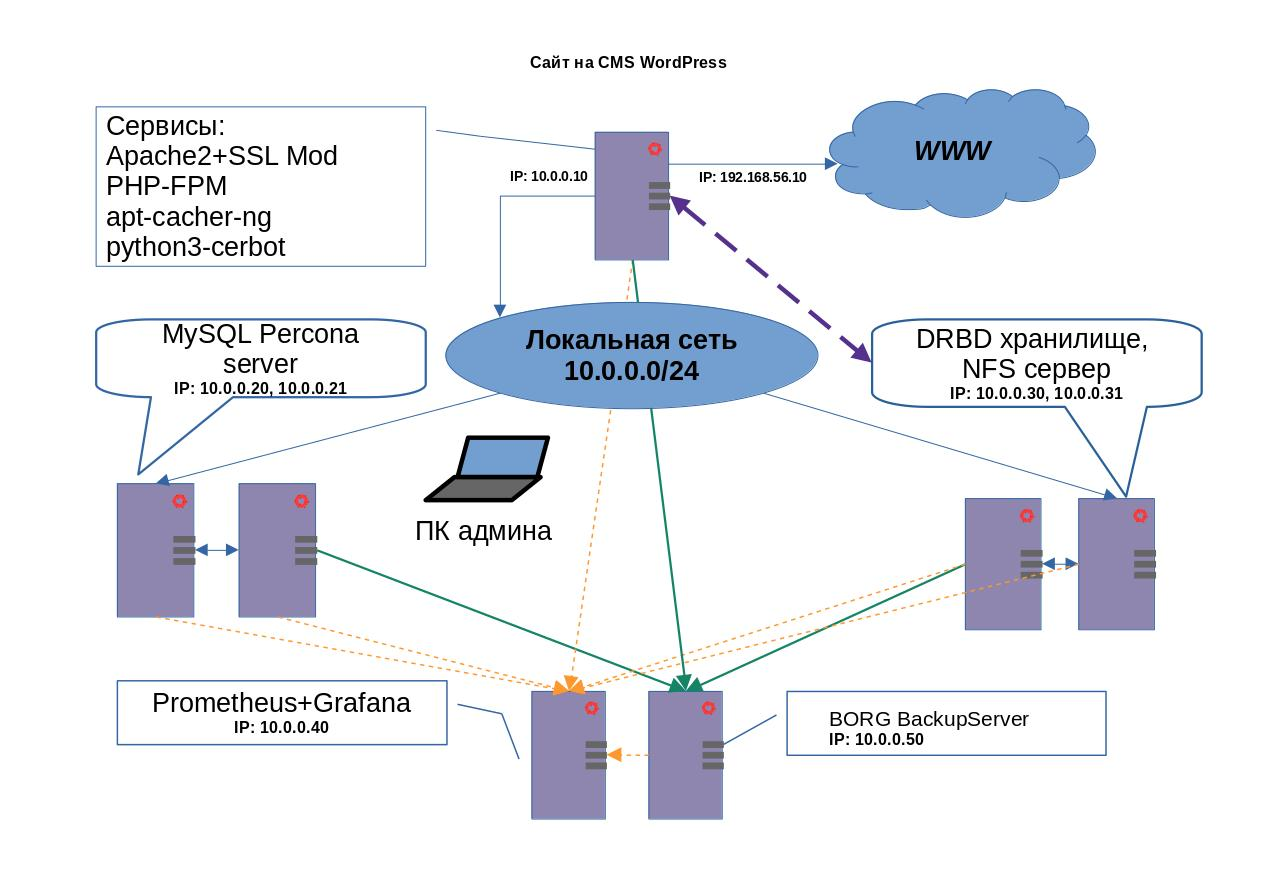
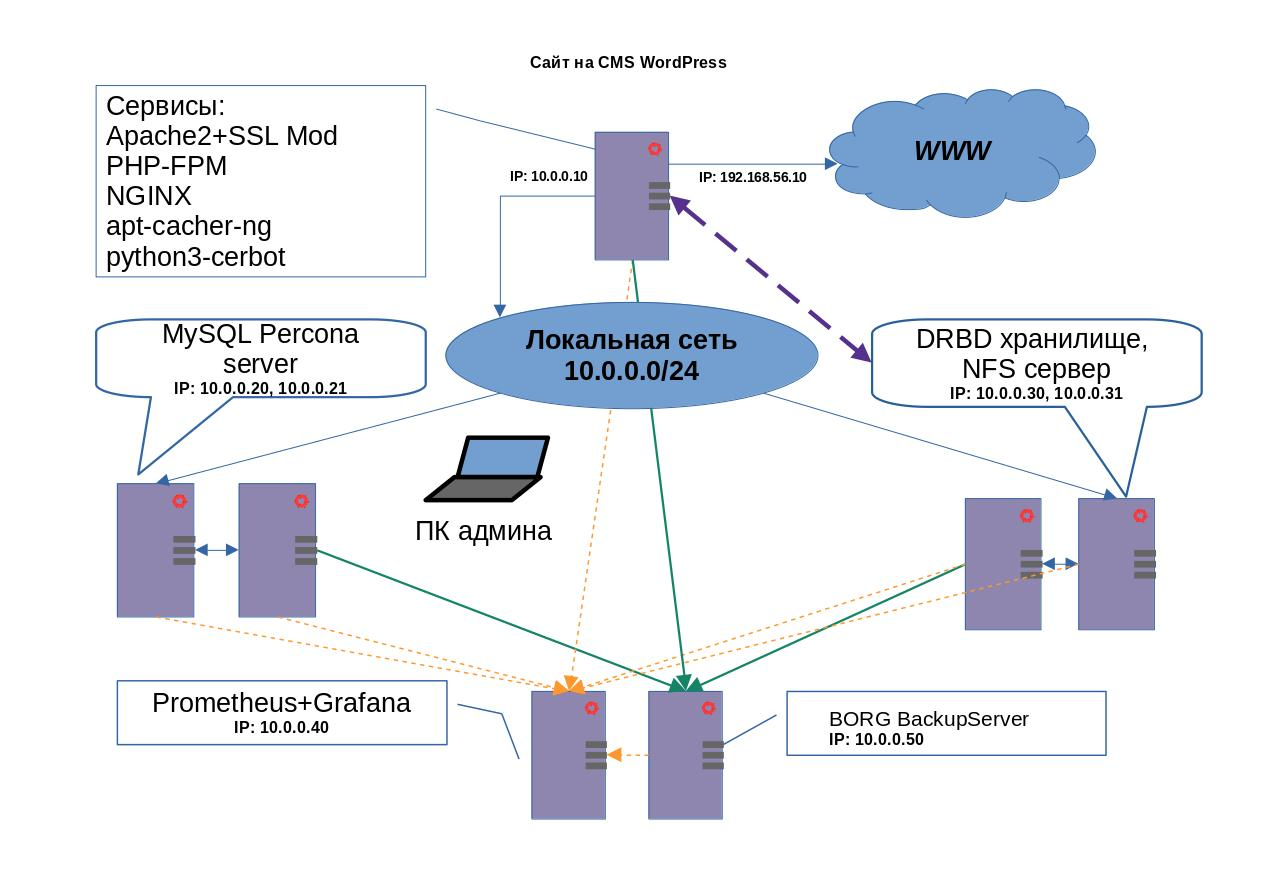
done_d

Changed region(s): [[0.0618, 0.0907, 0.3397, 0.3024], [0.4323, 0.1512, 0.4632, 0.1814], [0.3397, 0.1209, 0.3705, 0.1512]]

diff --git a/diplom2022-10/ReadMe.md b/diplom2022-10/ReadMe.md
@@ -33,7 +33,8 @@
 1. **_frontserver_**  имеет 2 сетевых интерфэйса с адресами _192.168.56.10 и 10.0.0.10_,   
 10.0.0.10 внутреняя локалка, 192.168.56.10 смотрит в "интеренет". На сервере установлены сервисы для работы с WEB, а именно:
 - Apache2 с включенным SSL-mod
-- PHP-FPM
+- PHP-FPM  
+- NGINX для проксирования прометеус и графана
 - Apt-cacher-ng - кэширующий прокси-сервер для загрузки deb,rpm и других пакетов из хранилищ.
 - python3-cerbot бот для создания и продления сертификата от Let`s Encrypt  
   Сервер взаимодействует по внутреней сети 10.0.0.0/24 с **_mysqlservernode1_** - раположена БД на MySQL, с **_drbdnode1_** сетевое хранилище для файлов сайта, смонтирована как /var/www/html (корневая папка сайта) через NFS клиент и с **_backupserver_** для хранения файлов конфигурации выше описанных сервисов.
@@ -55,7 +56,8 @@
 apt-chacher  
 backup  
 drbd NFS  
-mysql  
+mysql 
+nginx
 apache php WP  
 cerbot  
 prometheus grafana node-exporter  

diff --git a/diplom2022-10/ansible/roles/nginx/README.md b/diplom2022-10/ansible/roles/nginx/README.md
@@ -1,0 +1,38 @@
+Role Name
+=========
+
+A brief description of the role goes here.
+
+Requirements
+------------
+
+Any pre-requisites that may not be covered by Ansible itself or the role should be mentioned here. For instance, if the role uses the EC2 module, it may be a good idea to mention in this section that the boto package is required.
+
+Role Variables
+--------------
+
+A description of the settable variables for this role should go here, including any variables that are in defaults/main.yml, vars/main.yml, and any variables that can/should be set via parameters to the role. Any variables that are read from other roles and/or the global scope (ie. hostvars, group vars, etc.) should be mentioned here as well.
+
+Dependencies
+------------
+
+A list of other roles hosted on Galaxy should go here, plus any details in regards to parameters that may need to be set for other roles, or variables that are used from other roles.
+
+Example Playbook
+----------------
+
+Including an example of how to use your role (for instance, with variables passed in as parameters) is always nice for users too:
+
+    - hosts: servers
+      roles:
+         - { role: username.rolename, x: 42 }
+
+License
+-------
+
+BSD
+
+Author Information
+------------------
+
+An optional section for the role authors to include contact information, or a website (HTML is not allowed).
